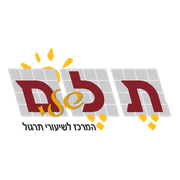
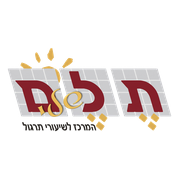
1.34.12: הלוגו המעודכן (זהב)
Claude-Session: https://claude.ai/code/session_01TZTHUbT2s24wRwNSu5Chp7

diff --git a/sw.js b/sw.js
@@ -3,7 +3,7 @@
 //  - קבצי האפליקציה – קודם מהשמור (נפתח מיד), ובמקביל בודקים ברשת. גרסה חדשה מגיעה עם sw חדש (CACHE חדש) → רענון אוטומטי.
 //  - תמונות הדפים (Supabase Storage, קישור חתום) – קודם מהשמור; בלי אינטרנט / בפעם השנייה – מיד. עד ~600 תמונות.
 //  - הנתונים עצמם (רשימות, תוכנית, נוכחות) – תמיד מהשרת, לא נשמרים כאן.
-const CACHE = "telem-portal-1.34.11";   // לשנות יחד עם הגרסה ב-index.html
+const CACHE = "telem-portal-1.34.12";   // לשנות יחד עם הגרסה ב-index.html
 const IMG = "telem-img-v1";          // תמונות הדפים – לא נמחק בכל גרסה
 const IMG_MAX = 600;
 const SHELL = ["./", "index.html", "manifest.webmanifest", "logo.png", "favicon.png", "apple-touch-icon.png", "icon-192.png", "icon-512.png"];

diff --git a/index.html b/index.html
@@ -2105,7 +2105,7 @@ body[data-att] .toast, body:has(#attListV) .toast{ bottom:auto; top:calc(12px + 
 // הגדרות
 // ======================================================================
 const CONFIG = {
-  version: "1.34.11",                                               // גרסת האפליקציה – עולה בכל גרסה חדשה
+  version: "1.34.12",                                               // גרסת האפליקציה – עולה בכל גרסה חדשה
   supabaseUrl: "https://oulivucqbpmbavbavfvy.supabase.co",
   anonKey: "sb_publishable_M8wEF2-9fXMmX0U97nfENw_AfZw9wNz",   // מפתח ציבורי - מותר שיהיה גלוי (ההרשאות נבדקות בשרת)
   appUrl: "https://telem-tirgul.github.io/telem-sheli/",           // הכתובת של האפליקציה (לשליחה לתלמידים)
